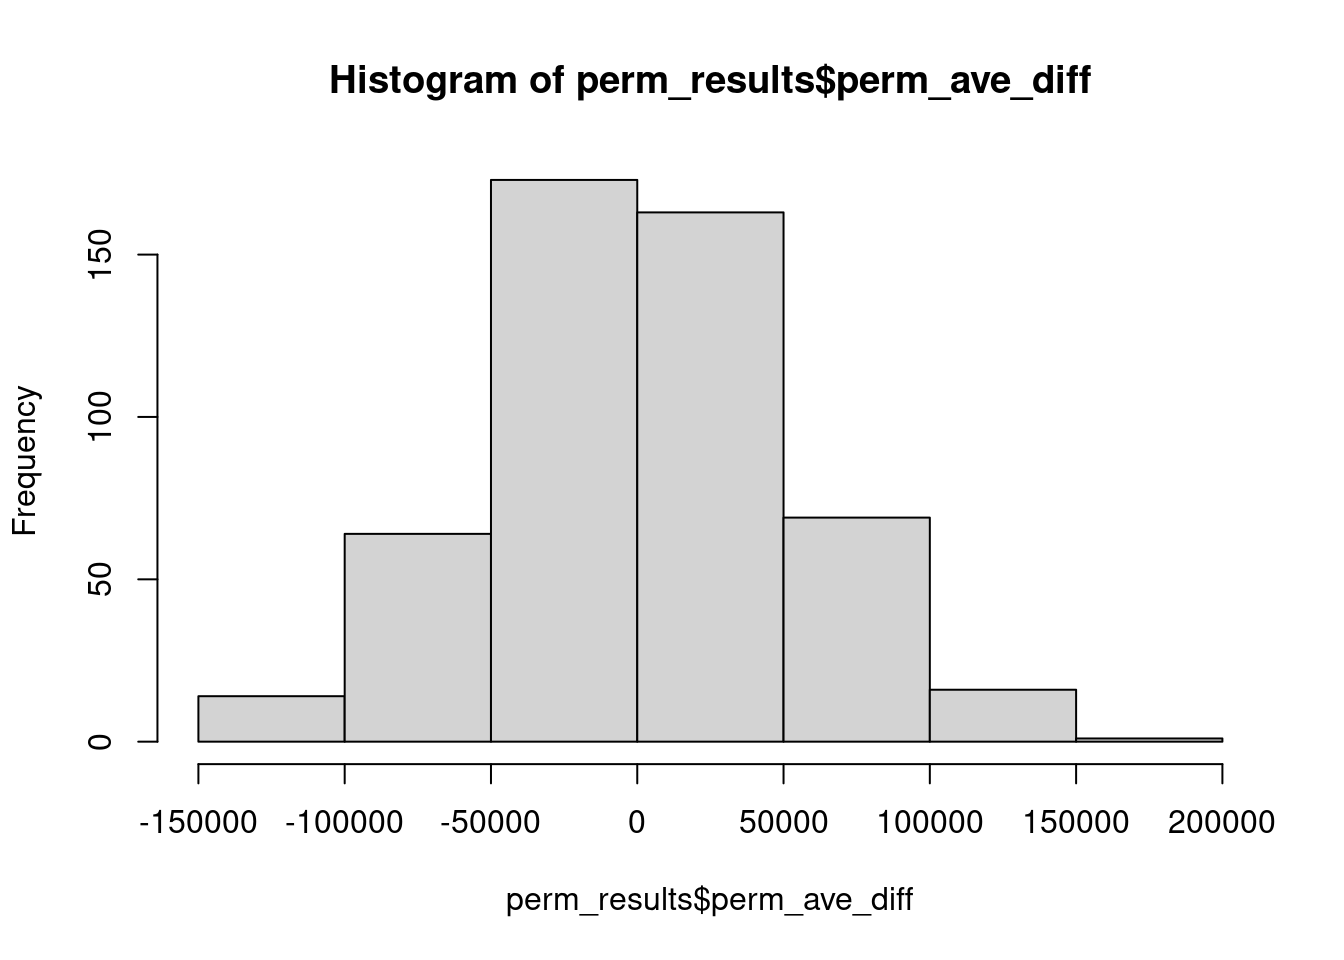
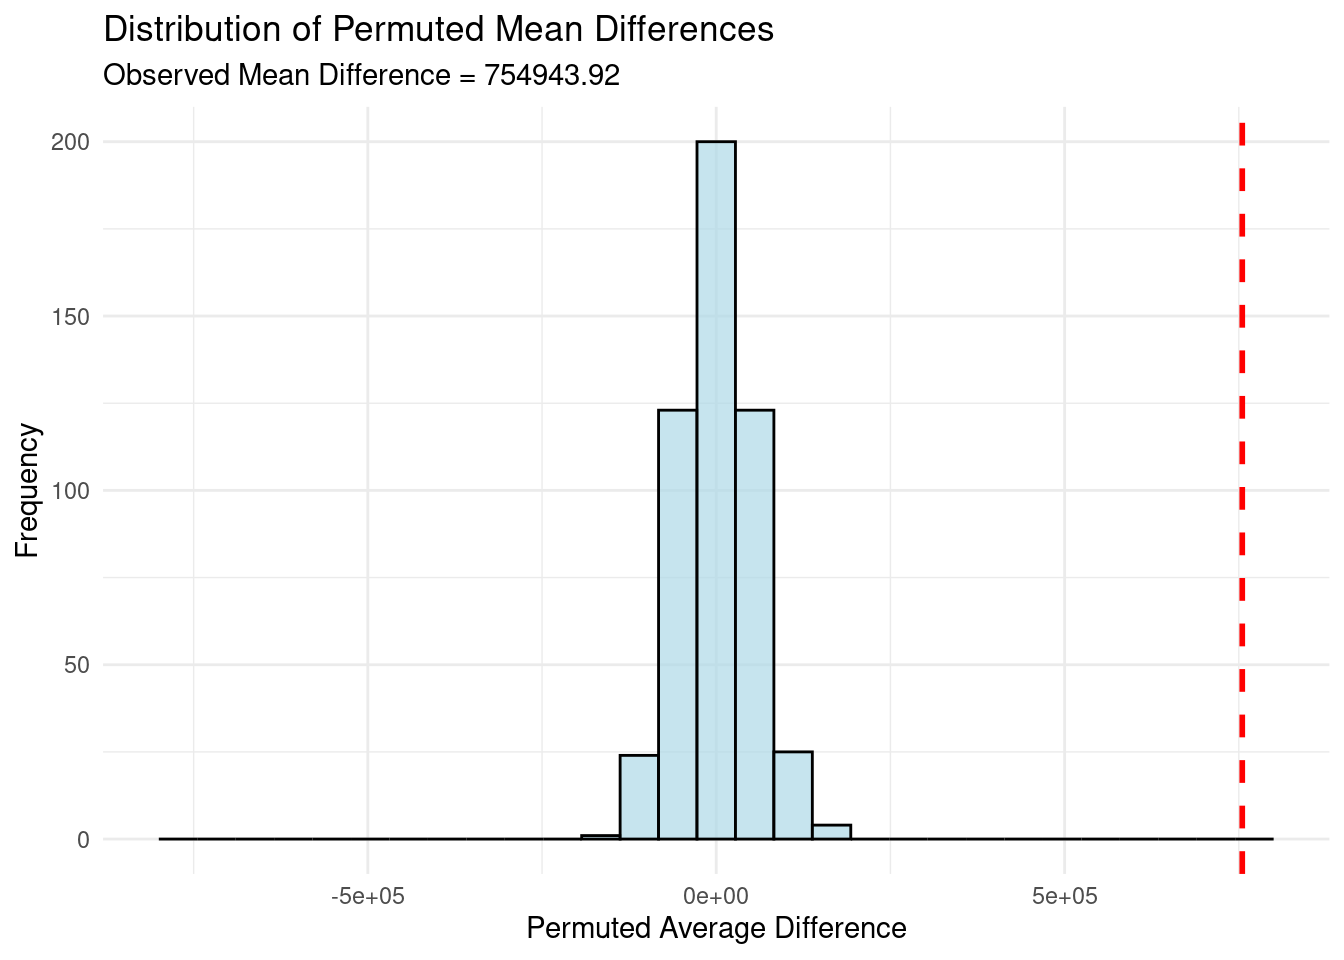
fixes

diff --git a/docs/Project3.html b/docs/Project3.html
@@ -170,7 +170,7 @@ pre > code.sourceCode > span > a:first-child::before { text-decoration: underlin
   </li>  
   <li class="nav-item">
     <a class="nav-link" href="./Project5.html"> 
-<span class="menu-text">Project 5</span></a>
+<span class="menu-text">Permutation Tests</span></a>
   </li>  
 </ul>
           </div> <!-- /navcollapse -->
@@ -233,9 +233,10 @@ pre > code.sourceCode > span > a:first-child::before { text-decoration: underlin
 <span id="cb1-4"><a href="#cb1-4" aria-hidden="true" tabindex="-1"></a><span class="fu">library</span>(dplyr)</span>
 <span id="cb1-5"><a href="#cb1-5" aria-hidden="true" tabindex="-1"></a><span class="fu">data</span>(LAhomes)</span></code><button title="Copy to Clipboard" class="code-copy-button"><i class="bi"></i></button></pre></div>
 </div>
-<p>Research Question: How do the locations of homes in Santa Monica and Long Beach affect their listing prices? Null Hypothesis: There is no significant difference in the mean listing prices of homes between Santa Monica and Long Beach.</p>
+<p>Research Question: How are the listing prices of homes in Santa Monica and Long Beach, within the population of homes listed for sale in Los Angeles in 2010, associated with their locations?</p>
+<p>Null Hypothesis: For the population of homes listed for sale in Los Angeles in 2010, there is no difference in the mean listing prices of homes between Santa Monica and Long Beach.</p>
 <p>Plan:</p>
-<p>In this analysis of the LA homes dataset, I conduct a permutation test to assess whether the city in which a home is located (specifically between Santa Monica and Long Beach) has a significant effect on the listing price. I begin by filtering the data to only include homes from these two cities. I then create a function that calculates the permuted mean difference in listing prices by randomly shuffling the city labels while keeping the prices fixed. This process is repeated multiple times through the map() function to generate a distribution of permuted mean differences under the null hypothesis, which states that the mean listing prices between the two cities are the same. Then, I calculate the observed mean difference and compare it to the distribution of permuted differences to compute the p-value. Finally, I visualize the distribution of these permuted mean differences and mark the observed mean difference to assess its significance.</p>
+<p>In this analysis of the LA homes dataset, I conduct a permutation test to assess whether the city in which a home is located (specifically between Santa Monica and Long Beach) is associated with the listing price. I begin by filtering the data to only include homes from these two cities. I then create a function that calculates the permuted mean difference in listing prices by randomly shuffling the city labels while keeping the prices fixed. This process is repeated multiple times through the map() function to generate a distribution of permuted mean differences under the null hypothesis, which states that the mean listing prices between the two cities are the same. Then, I calculate the observed mean difference and compare it to the distribution of permuted differences to compute the p-value. Finally, I visualize the distribution of these permuted mean differences and mark the observed mean difference to assess its significance.</p>
 <div class="cell">
 <div class="sourceCode cell-code" id="cb2"><pre class="sourceCode r code-with-copy"><code class="sourceCode r"><span id="cb2-1"><a href="#cb2-1" aria-hidden="true" tabindex="-1"></a><span class="fu">head</span>(LAhomes)</span></code><button title="Copy to Clipboard" class="code-copy-button"><i class="bi"></i></button></pre></div>
 <div class="cell-output cell-output-stdout">
@@ -249,7 +250,7 @@ pre > code.sourceCode > span > a:first-child::before { text-decoration: underlin
 5 Long Beach &lt;NA&gt;      0     1      1  1526 N     375000
 6 Long Beach &lt;NA&gt;      1     1      0   552 N     159900</code></pre>
 </div>
-<div class="sourceCode cell-code" id="cb4"><pre class="sourceCode r code-with-copy"><code class="sourceCode r"><span id="cb4-1"><a href="#cb4-1" aria-hidden="true" tabindex="-1"></a>twoLAhomes <span class="ot">&lt;-</span> LAhomes <span class="sc">%&gt;%</span> </span>
+<div class="sourceCode cell-code" id="cb4"><pre class="sourceCode r code-with-copy"><code class="sourceCode r"><span id="cb4-1"><a href="#cb4-1" aria-hidden="true" tabindex="-1"></a>twoLAhomes <span class="ot">&lt;-</span> LAhomes <span class="sc">|&gt;</span> </span>
 <span id="cb4-2"><a href="#cb4-2" aria-hidden="true" tabindex="-1"></a>  <span class="fu">filter</span>(city <span class="sc">%in%</span> <span class="fu">c</span>(<span class="st">"Santa Monica"</span>, <span class="st">"Long Beach"</span>))</span>
 <span id="cb4-3"><a href="#cb4-3" aria-hidden="true" tabindex="-1"></a></span>
 <span id="cb4-4"><a href="#cb4-4" aria-hidden="true" tabindex="-1"></a>perm_data <span class="ot">&lt;-</span> <span class="cf">function</span>(rep, data) {</span>
@@ -269,21 +270,30 @@ pre > code.sourceCode > span > a:first-child::before { text-decoration: underlin
 <span id="cb4-18"><a href="#cb4-18" aria-hidden="true" tabindex="-1"></a>  <span class="fu">group_by</span>(city) <span class="sc">|&gt;</span> </span>
 <span id="cb4-19"><a href="#cb4-19" aria-hidden="true" tabindex="-1"></a>  <span class="fu">summarise</span>(<span class="at">obs_ave =</span> <span class="fu">mean</span>(price, <span class="at">na.rm =</span> <span class="cn">TRUE</span>)) <span class="sc">|&gt;</span> </span>
 <span id="cb4-20"><a href="#cb4-20" aria-hidden="true" tabindex="-1"></a>  <span class="fu">mutate</span>(<span class="at">obs_ave_diff =</span> <span class="fu">diff</span>(obs_ave)) <span class="sc">|&gt;</span> </span>
-<span id="cb4-21"><a href="#cb4-21" aria-hidden="true" tabindex="-1"></a>  <span class="fu">pull</span>()</span>
+<span id="cb4-21"><a href="#cb4-21" aria-hidden="true" tabindex="-1"></a>  <span class="fu">pull</span>(obs_ave_diff)</span>
 <span id="cb4-22"><a href="#cb4-22" aria-hidden="true" tabindex="-1"></a></span>
 <span id="cb4-23"><a href="#cb4-23" aria-hidden="true" tabindex="-1"></a><span class="fu">set.seed</span>(<span class="dv">123</span>)  </span>
 <span id="cb4-24"><a href="#cb4-24" aria-hidden="true" tabindex="-1"></a>num_reps <span class="ot">&lt;-</span> <span class="dv">500</span></span>
 <span id="cb4-25"><a href="#cb4-25" aria-hidden="true" tabindex="-1"></a>perm_results <span class="ot">&lt;-</span> <span class="fu">map_dfr</span>(<span class="dv">1</span><span class="sc">:</span>num_reps, <span class="sc">~</span> <span class="fu">perm_data</span>(.x, twoLAhomes))</span>
 <span id="cb4-26"><a href="#cb4-26" aria-hidden="true" tabindex="-1"></a></span>
-<span id="cb4-27"><a href="#cb4-27" aria-hidden="true" tabindex="-1"></a></span>
+<span id="cb4-27"><a href="#cb4-27" aria-hidden="true" tabindex="-1"></a>p_value <span class="ot">&lt;-</span> <span class="fu">mean</span>(<span class="fu">abs</span>(perm_results <span class="sc">|&gt;</span> <span class="fu">pull</span>(perm_ave_diff)) <span class="sc">&gt;</span> observed_diff)</span>
 <span id="cb4-28"><a href="#cb4-28" aria-hidden="true" tabindex="-1"></a></span>
-<span id="cb4-29"><a href="#cb4-29" aria-hidden="true" tabindex="-1"></a>p_value <span class="ot">&lt;-</span> <span class="fu">mean</span>(<span class="fu">abs</span>(perm_results<span class="sc">$</span>perm_ave_diff) <span class="sc">&gt;</span> observed_diff)</span>
-<span id="cb4-30"><a href="#cb4-30" aria-hidden="true" tabindex="-1"></a></span>
-<span id="cb4-31"><a href="#cb4-31" aria-hidden="true" tabindex="-1"></a>p_value</span></code><button title="Copy to Clipboard" class="code-copy-button"><i class="bi"></i></button></pre></div>
+<span id="cb4-29"><a href="#cb4-29" aria-hidden="true" tabindex="-1"></a>p_value</span></code><button title="Copy to Clipboard" class="code-copy-button"><i class="bi"></i></button></pre></div>
 <div class="cell-output cell-output-stdout">
 <pre><code>[1] 0</code></pre>
 </div>
-<div class="sourceCode cell-code" id="cb6"><pre class="sourceCode r code-with-copy"><code class="sourceCode r"><span id="cb6-1"><a href="#cb6-1" aria-hidden="true" tabindex="-1"></a><span class="fu">hist</span>(perm_results<span class="sc">$</span>perm_ave_diff)</span></code><button title="Copy to Clipboard" class="code-copy-button"><i class="bi"></i></button></pre></div>
+<div class="sourceCode cell-code" id="cb6"><pre class="sourceCode r code-with-copy"><code class="sourceCode r"><span id="cb6-1"><a href="#cb6-1" aria-hidden="true" tabindex="-1"></a>perm_results <span class="sc">|&gt;</span> </span>
+<span id="cb6-2"><a href="#cb6-2" aria-hidden="true" tabindex="-1"></a><span class="fu">ggplot</span>(<span class="fu">aes</span>(<span class="at">x =</span> perm_ave_diff)) <span class="sc">+</span></span>
+<span id="cb6-3"><a href="#cb6-3" aria-hidden="true" tabindex="-1"></a>  <span class="fu">geom_histogram</span>(<span class="at">fill =</span> <span class="st">"lightblue"</span>, <span class="at">color =</span> <span class="st">"black"</span>, <span class="at">alpha =</span> <span class="fl">0.7</span>) <span class="sc">+</span></span>
+<span id="cb6-4"><a href="#cb6-4" aria-hidden="true" tabindex="-1"></a>  <span class="fu">geom_vline</span>(<span class="at">xintercept =</span> observed_diff, <span class="at">color =</span> <span class="st">"red"</span>, <span class="at">linetype =</span> <span class="st">"dashed"</span>, <span class="at">linewidth =</span> <span class="dv">1</span>) <span class="sc">+</span></span>
+<span id="cb6-5"><a href="#cb6-5" aria-hidden="true" tabindex="-1"></a>  <span class="fu">labs</span>(</span>
+<span id="cb6-6"><a href="#cb6-6" aria-hidden="true" tabindex="-1"></a>    <span class="at">title =</span> <span class="st">"Distribution of Permuted Mean Differences"</span>,</span>
+<span id="cb6-7"><a href="#cb6-7" aria-hidden="true" tabindex="-1"></a>    <span class="at">subtitle =</span> <span class="fu">paste</span>(<span class="st">"Observed Mean Difference ="</span>, <span class="fu">round</span>(observed_diff, <span class="dv">2</span>)),</span>
+<span id="cb6-8"><a href="#cb6-8" aria-hidden="true" tabindex="-1"></a>    <span class="at">x =</span> <span class="st">"Permuted Average Difference"</span>,</span>
+<span id="cb6-9"><a href="#cb6-9" aria-hidden="true" tabindex="-1"></a>    <span class="at">y =</span> <span class="st">"Frequency"</span></span>
+<span id="cb6-10"><a href="#cb6-10" aria-hidden="true" tabindex="-1"></a>  ) <span class="sc">+</span></span>
+<span id="cb6-11"><a href="#cb6-11" aria-hidden="true" tabindex="-1"></a>  <span class="fu">xlim</span>(<span class="sc">-</span><span class="dv">800000</span>, <span class="dv">800000</span>) <span class="sc">+</span></span>
+<span id="cb6-12"><a href="#cb6-12" aria-hidden="true" tabindex="-1"></a>  <span class="fu">theme_minimal</span>()</span></code><button title="Copy to Clipboard" class="code-copy-button"><i class="bi"></i></button></pre></div>
 <div class="cell-output-display">
 <div>
 <figure class="figure">
@@ -291,28 +301,10 @@ pre > code.sourceCode > span > a:first-child::before { text-decoration: underlin
 </figure>
 </div>
 </div>
-<div class="sourceCode cell-code" id="cb7"><pre class="sourceCode r code-with-copy"><code class="sourceCode r"><span id="cb7-1"><a href="#cb7-1" aria-hidden="true" tabindex="-1"></a>perm_results <span class="sc">%&gt;%</span> </span>
-<span id="cb7-2"><a href="#cb7-2" aria-hidden="true" tabindex="-1"></a><span class="fu">ggplot</span>(<span class="fu">aes</span>(<span class="at">x =</span> perm_ave_diff)) <span class="sc">+</span></span>
-<span id="cb7-3"><a href="#cb7-3" aria-hidden="true" tabindex="-1"></a>  <span class="fu">geom_histogram</span>(<span class="at">fill =</span> <span class="st">"lightblue"</span>, <span class="at">color =</span> <span class="st">"black"</span>, <span class="at">alpha =</span> <span class="fl">0.7</span>) <span class="sc">+</span></span>
-<span id="cb7-4"><a href="#cb7-4" aria-hidden="true" tabindex="-1"></a>  <span class="fu">geom_vline</span>(<span class="at">xintercept =</span> observed_diff, <span class="at">color =</span> <span class="st">"red"</span>, <span class="at">linetype =</span> <span class="st">"dashed"</span>, <span class="at">linewidth =</span> <span class="dv">1</span>) <span class="sc">+</span></span>
-<span id="cb7-5"><a href="#cb7-5" aria-hidden="true" tabindex="-1"></a>  <span class="fu">labs</span>(</span>
-<span id="cb7-6"><a href="#cb7-6" aria-hidden="true" tabindex="-1"></a>    <span class="at">title =</span> <span class="st">"Distribution of Permuted Mean Differences"</span>,</span>
-<span id="cb7-7"><a href="#cb7-7" aria-hidden="true" tabindex="-1"></a>    <span class="at">subtitle =</span> <span class="fu">paste</span>(<span class="st">"Observed Mean Difference ="</span>, <span class="fu">round</span>(observed_diff, <span class="dv">2</span>)),</span>
-<span id="cb7-8"><a href="#cb7-8" aria-hidden="true" tabindex="-1"></a>    <span class="at">x =</span> <span class="st">"Permuted Average Difference"</span>,</span>
-<span id="cb7-9"><a href="#cb7-9" aria-hidden="true" tabindex="-1"></a>    <span class="at">y =</span> <span class="st">"Frequency"</span></span>
-<span id="cb7-10"><a href="#cb7-10" aria-hidden="true" tabindex="-1"></a>  ) <span class="sc">+</span></span>
-<span id="cb7-11"><a href="#cb7-11" aria-hidden="true" tabindex="-1"></a>  <span class="fu">xlim</span>(<span class="sc">-</span><span class="dv">800000</span>, <span class="dv">800000</span>) <span class="sc">+</span></span>
-<span id="cb7-12"><a href="#cb7-12" aria-hidden="true" tabindex="-1"></a>  <span class="fu">theme_minimal</span>()</span></code><button title="Copy to Clipboard" class="code-copy-button"><i class="bi"></i></button></pre></div>
-<div class="cell-output-display">
-<div>
-<figure class="figure">
-<p><img src="Project3_files/figure-html/unnamed-chunk-2-2.png" class="img-fluid figure-img" width="672"></p>
-</figure>
-</div>
-</div>
 </div>
 <p>What I Did:</p>
-<p>In my analysis of the LA homes dataset, focusing on whether the city in which a home is located (specifically between Santa Monica and Long Beach) affects the listing price, I created a function that calculates the permuted mean difference. This function shuffles the city labels while keeping the prices fixed, simulating what the mean difference would look like under the null hypothesis. Using the map_dfr() function, I ran 500 iterations of this permutation process and compiled the results into a data frame. I then visualized the results by plotting a histogram of the distribution of permuted mean differences and marked the observed mean difference with a red dashed line for comparison. Finally, I calculated the p-value to determine the proportion of permuted mean differences that were greater than the observed mean difference. Under the null hypothesis and assuming that the average home prices in Santa Monica and Long Beach come from the same distribution, the p-value represents the probability of observing a mean difference as large as the actual observed difference (754,943.92) by random chance. If the p-value is approximately 0%, this indicates that it is highly unlikely to observe such a difference under the null hypothesis. Therefore, we can reject the null hypothesis and conclude that there is a significant difference in the average home prices between Santa Monica and Long Beach.</p>
+<p>In my analysis of the LA homes dataset, focusing on whether the city in which a home is located (specifically between Santa Monica and Long Beach) is associated with the listing price, I created a function that calculates the permuted mean difference. This function shuffles the city labels while keeping the prices fixed, simulating what the mean difference would look like under the null hypothesis. Using the map_dfr() function, I ran 500 iterations of this permutation process and compiled the results into a data frame. I then visualized the results by plotting a histogram of the distribution of permuted mean differences and marked the observed mean difference with a red dashed line for comparison. Finally, I calculated the p-value to determine the proportion of permuted mean differences that were greater than the observed mean difference. Under the null hypothesis and assuming that the average home prices in Santa Monica and Long Beach come from the same distribution, the p-value represents the probability of observing a mean difference as large as the actual observed difference (754,943.92) by random chance. If the p-value is approximately 0%, this indicates that it is highly unlikely to observe such a difference under the null hypothesis. Therefore, we can reject the null hypothesis and conclude that there is a significant difference in the average home prices between Santa Monica and Long Beach.</p>
+<p>The null hypothesis assumes that the average home prices in Santa Monica and Long Beach come from the same population of homes listed for sale in Los Angeles in 2010. The p-value represents the probability of observing a mean difference as large as the actual observed difference ($754,943.92) in the dataset by random chance, under the assumption that the null hypothesis is true. If the p-value is approximately 0%, this suggests that such a difference is highly unlikely to occur in the dataset under the null hypothesis. Based on this analysis, we can reject the null hypothesis and conclude that, for the population of homes listed for sale in Los Angeles in 2010, there is evidence of a difference in the average home prices between Santa Monica and Long Beach.</p>
 <p>Insights from the Plot:</p>
 <p>In terms of the distribution of permuted differences, the histogram depicts the distribution of permuted mean differences under the null hypothesis, which assumes there is no significant difference in mean home prices between Santa Monica and Long Beach. The fact that the distribution is centered around zero indicates that when city labels are shuffled, the mean difference is typically around zero.</p>
 <p>In terms of observed mean difference, the red dashed line represents the observed mean difference (754,943.92) between the actual home prices in Santa Monica and Long Beach. This value is beyond the range of most of the permuted mean differences.</p>
